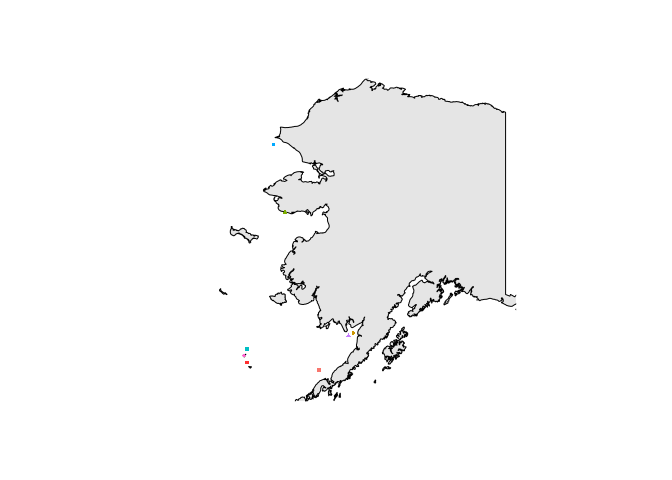
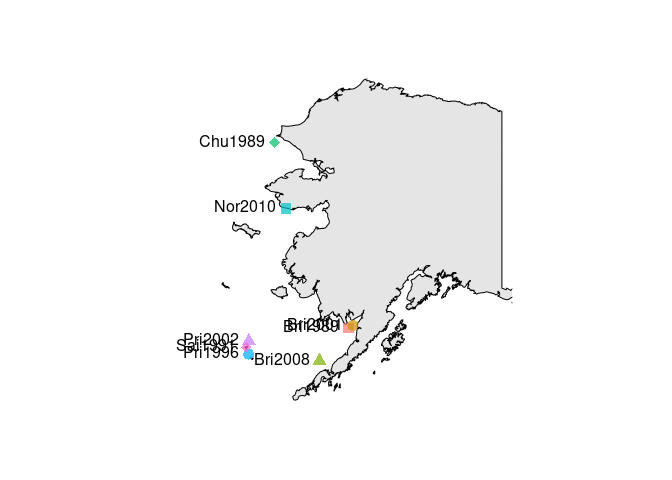
Update bering sea map

diff --git a/rmarkdown/data_analysis.md b/rmarkdown/data_analysis.md
@@ -177,6 +177,24 @@ All_pop_pca <- PCA(genome_cov_SEAK, sample_table_SEAK$ABLG, sample_table_SEAK$po
 pcangsd for Bering Sea
 
 ``` r
+sample_table <- read_tsv("/fs/cbsubscb16/storage/rkc/sample_lists/sample_table.tsv")
+```
+
+    ## 
+    ## ── Column specification ────────────────────────────────────────────────────────
+    ## cols(
+    ##   ABLG = col_double(),
+    ##   population = col_character(),
+    ##   Loc = col_character(),
+    ##   GeneralLoc = col_character(),
+    ##   StartLatDD = col_double(),
+    ##   StartLonDD = col_double(),
+    ##   k3_inferred_pop = col_character(),
+    ##   k4_inferred_pop = col_character(),
+    ##   k5_inferred_pop = col_character()
+    ## )
+
+``` r
 sample_table_BSEA <- sample_table %>% 
   mutate(beagle_index = 1 + (3*(seq(1,183) +1))) %>% # converts individual ids to their index column names in beagle
   mutate(geo_population = substr(population,1,3), .after = population) %>% 
@@ -259,84 +277,13 @@ BSEA_loc_pca <- PCA(genome_cov_BSEA, sample_table_BSEA$ABLG, sample_table_BSEA$L
 color = c("#F8766D", "#CD9600", "#7CAE00", "#00BE67", "#00BFC4", "#00A9FF", "#C77CFF", "#FF61CC", "#FF3030")
 BSEA_coords <- sample_table_BSEA %>% 
   select(population, StartLonDD, StartLatDD)
-BSEA_coords <- unique(BSEA_coords)
+BSEA_coords <- unique(BSEA_coords) %>%  
+  arrange(population) %>% 
+  slice(-7)
 
-maps::map("worldHires","USA", xlim=c(-180,-140),ylim=c(55,71.2), col="gray90", fill=TRUE) #plot the region of USA containing all sites  
-points(BSEA_coords$StartLonDD, BSEA_coords$StartLatDD, pch=c(rep(c(15,16,17,18),7), 15, 16), cex=0.5, col = color)  #plot my sample sites 
+maps::map("worldHires","USA", xlim=c(-180,-140),ylim=c(54.5,71.2), col="gray90", fill=TRUE) #plot the region of USA containing all sites  
+points(BSEA_coords$StartLonDD, BSEA_coords$StartLatDD, pch=c(rep(c(15,16,17,18),7), 15, 16), cex=1.5, col = alpha(color,0.7))  #plot my sample sites 
+text(BSEA_coords$StartLonDD, BSEA_coords$StartLatDD, labels = BSEA_coords$population, pos = 2, offset = 0.5)
 ```
 
 ![](data_analysis_files/figure-gfm/unnamed-chunk-10-1.png)<!-- -->
-
-``` r
-save
-```
-
-    ## function (..., list = character(), file = stop("'file' must be specified"), 
-    ##     ascii = FALSE, version = NULL, envir = parent.frame(), compress = isTRUE(!ascii), 
-    ##     compression_level, eval.promises = TRUE, precheck = TRUE) 
-    ## {
-    ##     opts <- getOption("save.defaults")
-    ##     if (missing(compress) && !is.null(opts$compress)) 
-    ##         compress <- opts$compress
-    ##     if (missing(compression_level) && !is.null(opts$compression_level)) 
-    ##         compression_level <- opts$compression_level
-    ##     if (missing(ascii) && !is.null(opts$ascii)) 
-    ##         ascii <- opts$ascii
-    ##     if (missing(version)) 
-    ##         version <- opts$version
-    ##     if (!is.null(version) && version < 2) 
-    ##         warning("Use of save versions prior to 2 is deprecated", 
-    ##             domain = NA)
-    ##     names <- as.character(substitute(list(...)))[-1L]
-    ##     if (missing(list) && !length(names)) 
-    ##         warning("nothing specified to be save()d")
-    ##     list <- c(list, names)
-    ##     if (!is.null(version) && version == 1) 
-    ##         .Internal(save(list, file, ascii, version, envir, eval.promises))
-    ##     else {
-    ##         if (precheck) {
-    ##             ok <- vapply(list, exists, NA, envir = envir)
-    ##             if (!all(ok)) {
-    ##                 n <- sum(!ok)
-    ##                 stop(sprintf(ngettext(n, "object %s not found", 
-    ##                   "objects %s not found"), paste(sQuote(list[!ok]), 
-    ##                   collapse = ", ")), domain = NA)
-    ##             }
-    ##         }
-    ##         if (is.character(file)) {
-    ##             if (!nzchar(file)) 
-    ##                 stop("'file' must be non-empty string")
-    ##             if (!is.character(compress)) {
-    ##                 if (!is.logical(compress)) 
-    ##                   stop("'compress' must be logical or character")
-    ##                 compress <- if (compress) 
-    ##                   "gzip"
-    ##                 else "no compression"
-    ##             }
-    ##             con <- switch(compress, bzip2 = {
-    ##                 if (!missing(compression_level)) bzfile(file, 
-    ##                   "wb", compression = compression_level) else bzfile(file, 
-    ##                   "wb")
-    ##             }, xz = {
-    ##                 if (!missing(compression_level)) xzfile(file, 
-    ##                   "wb", compression = compression_level) else xzfile(file, 
-    ##                   "wb", compression = 9)
-    ##             }, gzip = {
-    ##                 if (!missing(compression_level)) gzfile(file, 
-    ##                   "wb", compression = compression_level) else gzfile(file, 
-    ##                   "wb")
-    ##             }, `no compression` = file(file, "wb"), stop(gettextf("'compress = \"%s\"' is invalid", 
-    ##                 compress)))
-    ##             on.exit(close(con))
-    ##         }
-    ##         else if (inherits(file, "connection")) 
-    ##             con <- file
-    ##         else stop("bad file argument")
-    ##         if (isOpen(con) && !ascii && summary(con)$text != "binary") 
-    ##             stop("can only save to a binary connection")
-    ##         .Internal(saveToConn(list, con, ascii, version, envir, 
-    ##             eval.promises))
-    ##     }
-    ## }
-    ## <bytecode: 0x9569c10>
-    ## <environment: namespace:base>
